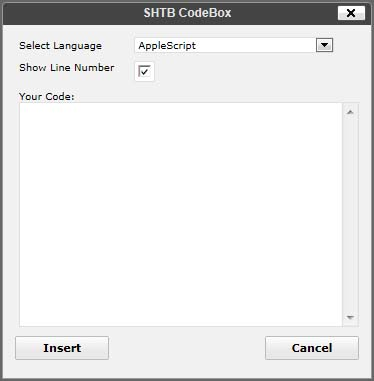
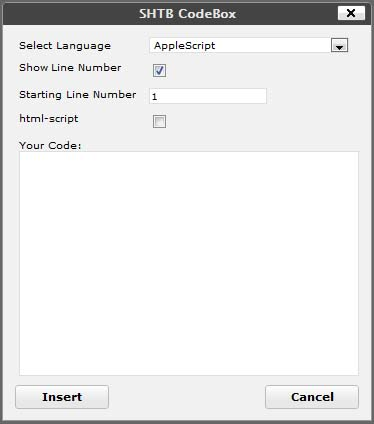
git-svn-id: https://plugins.svn.wordpress.org/syntaxhighlighter-tinymce-button/trunk@385317 b8457f37-d9ea-0310-8a92-e5e31aec5664

diff --git a/sh-tinymce-button-ins/tinymce.js b/sh-tinymce-button-ins/tinymce.js
@@ -25,6 +25,8 @@ function insertSHTBADVINSERTcode() {
 	var langname_ddb = document.getElementById('shtb_adv_insert_language');
 	var langname = langname_ddb.value;
 	var linenumbers = document.getElementById('shtb_adv_insert_linenumbers').checked;
+	var starting_linenumber = document.getElementById('shtb_adv_insert_starting_linenumber').value;
+	var html_script = document.getElementById('shtb_adv_insert_html_script').checked;
 	var inst = tinyMCE.getInstanceById('content');
 	var html = inst.selection.getContent();
 	html = html.replace(/<p>/g,"").replace(/<\/p>/g,"<br \/>");
@@ -37,7 +39,20 @@ function insertSHTBADVINSERTcode() {
 	else
 		classAttribs = classAttribs + '; gutter: false';
 
-	if(e = ed.dom.getParent(ed.selection.getNode(), 'pre')){
+	if (starting_linenumber)
+		classAttribs = classAttribs + '; first-line: ' + starting_linenumber;
+	else
+		classAttribs = classAttribs;
+
+	if (html_script)
+		classAttribs = classAttribs + '; html-script: true';
+	else
+		classAttribs = classAttribs;
+
+	if(starting_linenumber.match(/[^0-9]+/)){
+			alert("Please input number to the 'Starting Line Number' column");
+			return;
+	} else if(e = ed.dom.getParent(ed.selection.getNode(), 'pre')){
 		ed.dom.setAttribs(e, {class : 'brush: '+classAttribs});
 	} else {
 	window.tinyMCE.execInstanceCommand('content', 'mceInsertContent', false, tagtext+classAttribs+'">'+html+'</pre>');

diff --git a/sh-tinymce-button-box/tinymce.js b/sh-tinymce-button-box/tinymce.js
@@ -24,6 +24,8 @@ function insertSHTBADVCODEBOXcode() {
 	var langname_ddb = document.getElementById('shtb_adv_codebox_language');
 	var langname = langname_ddb.value;
 	var linenumbers = document.getElementById('shtb_adv_codebox_linenumbers').checked;
+	var starting_linenumber = document.getElementById('shtb_adv_codebox_starting_linenumber').value;
+	var html_script = document.getElementById('shtb_adv_codebox_html_script').checked;
 	var code = document.getElementById('shtb_adv_codebox_code').value.replace(/</g,'&lt;').replace(/\n/g,'<br>');
 
 	var tagtext = '<pre class="brush: ';
@@ -34,7 +36,20 @@ function insertSHTBADVCODEBOXcode() {
 	else
 		classAttribs = classAttribs + '; gutter: false';
 
-	if (code == '') {
+	if (starting_linenumber)
+		classAttribs = classAttribs + '; first-line: ' + starting_linenumber;
+	else
+		classAttribs = classAttribs;
+
+	if (html_script)
+		classAttribs = classAttribs + '; html-script: true';
+	else
+		classAttribs = classAttribs;
+
+	if(starting_linenumber.match(/[^0-9]+/)){
+			alert("Please input number to the 'Starting Line Number' column");
+			return;
+	} else if (code == '') {
 		alert("Your code is empty");
 	} else {
 	window.tinyMCE.execInstanceCommand('content', 'mceInsertContent', false, tagtext+classAttribs+'">'+code+'</pre>');

diff --git a/sh-tinymce-button-ins/re_write.js b/sh-tinymce-button-ins/re_write.js
@@ -8,11 +8,17 @@ var SHTBADVINSERTDialog = {
 		if (e = ed.dom.getParent(ed.selection.getNode(), 'pre')) {
 			str = ed.dom.getAttrib(e, 'class').split(";");
 			f.shtb_adv_insert_language.value = str[0].replace("brush: ", "");
-			if(ed.dom.getAttrib(e, 'class').match(/true/)){
+			if(ed.dom.getAttrib(e, 'class').match(/gutter: true/)){
 				f.shtb_adv_insert_linenumbers.checked = true;
 			}
-			if(ed.dom.getAttrib(e, 'class').match(/false/)){
+			if(ed.dom.getAttrib(e, 'class').match(/gutter: false/)){
 				f.shtb_adv_insert_linenumbers.checked = false;
+			}
+			if(ed.dom.getAttrib(e, 'class').match(/first-line:/)){
+				f.shtb_adv_insert_starting_linenumber.value = str[2].replace(" first-line: ", "");
+			}
+			if(ed.dom.getAttrib(e, 'class').match(/html-script: true/)){
+				f.shtb_adv_insert_html_script.checked = true;
 			}
 			f.insert.value=ed.getLang('update');
 		}

diff --git a/sh-tinymce-button-box/editor_plugin.js b/sh-tinymce-button-box/editor_plugin.js
@@ -13,7 +13,7 @@
 				ed.windowManager.open({
 					file : url + '/window.php',
 					width : 360,
-					height : 340,
+					height : 390,
 					inline : 1
 				}, {
 					plugin_url : url // Plugin absolute URL
@@ -41,7 +41,7 @@
 					author 	  : 'redcocker',
 					authorurl : 'http://www.near-mint.com/blog',
 					infourl   : 'http://www.near-mint.com/blog',
-					version   : "0.2.2"
+					version   : "0.3"
 			};
 		}
 	});

diff --git a/sh-tinymce-button-ins/editor_plugin.js b/sh-tinymce-button-ins/editor_plugin.js
@@ -13,7 +13,7 @@
 				ed.windowManager.open({
 					file : url + '/window.php',
 					width : 360,
-					height : 90,
+					height : 145,
 					inline : 1
 				}, {
 					plugin_url : url // Plugin absolute URL
@@ -41,7 +41,7 @@
 					author 	  : 'redcocker',
 					authorurl : 'http://www.near-mint.com/blog',
 					infourl   : 'http://www.near-mint.com/blog',
-					version   : "0.2.2"
+					version   : "0.3"
 			};
 		}
 	});

diff --git a/sh-tinymce-button-ins/window.php b/sh-tinymce-button-ins/window.php
@@ -15,8 +15,8 @@ global $wpdb;
 <!-- 	<meta http-equiv="Content-Type" content="<?php// bloginfo('html_type'); ?>; charset=<?php //echo get_option('blog_charset'); ?>" /> -->
 	<script language="javascript" type="text/javascript" src="<?php echo get_option('siteurl') ?>/wp-includes/js/tinymce/tiny_mce_popup.js"></script>
 	<script language="javascript" type="text/javascript" src="<?php echo get_option('siteurl') ?>/wp-includes/js/tinymce/utils/form_utils.js"></script>
-	<script language="javascript" type="text/javascript" src="<?php echo get_option('siteurl') ?>/wp-content/plugins/syntaxhighlighter-tinymce-button/sh-tinymce-button-ins/tinymce.js?ver=0.2.1"></script>
-	<script language="javascript" type="text/javascript" src="<?php echo get_option('siteurl') ?>/wp-content/plugins/syntaxhighlighter-tinymce-button/sh-tinymce-button-ins/re_write.js?ver=0.2.1"></script>
+	<script language="javascript" type="text/javascript" src="<?php echo get_option('siteurl') ?>/wp-content/plugins/syntaxhighlighter-tinymce-button/sh-tinymce-button-ins/tinymce.js?ver=0.3"></script>
+	<script language="javascript" type="text/javascript" src="<?php echo get_option('siteurl') ?>/wp-content/plugins/syntaxhighlighter-tinymce-button/sh-tinymce-button-ins/re_write.js?ver=0.3"></script>
 	<base target="_self" />
 </head>
 		<body id="link" onload="tinyMCEPopup.executeOnLoad('init();');document.body.style.display='';" style="display: none">
@@ -66,6 +66,14 @@ global $wpdb;
           <tr>
 			<td nowrap="nowrap" valign="top"><label for="shtb_adv_insert_linenumbers"><?php _e("Show Line Number", 'shtb_adv_lang'); ?></label></td>
             <td><label><input name="shtb_adv_insert_linenumbers" id='shtb_adv_insert_linenumbers' type="checkbox" checked="checked" /></label></td>
+          </tr>
+          <tr>
+			<td nowrap="nowrap" valign="top"><label for="shtb_adv_insert_starting_linenumber"><?php _e("Starting Line Number", 'shtb_adv_lang'); ?></label></td>
+            <td><label><input name="shtb_adv_insert_starting_linenumber" id='shtb_adv_insert_starting_linenumber' type="text" value="1" /></label></td>
+          </tr>
+          <tr>
+			<td nowrap="nowrap" valign="top"><label for="shtb_adv_insert_html_script"><?php _e("html-script", 'shtb_adv_lang'); ?></label></td>
+            <td><label><input name="shtb_adv_insert_html_script" id='shtb_adv_insert_html_script' type="checkbox" /></label></td>
           </tr>
         </table>
 	<div class="mceActionPanel">

diff --git a/sh-tinymce-button-box/window.php b/sh-tinymce-button-box/window.php
@@ -15,7 +15,7 @@ global $wpdb;
 <!-- 	<meta http-equiv="Content-Type" content="<?php// bloginfo('html_type'); ?>; charset=<?php //echo get_option('blog_charset'); ?>" /> -->
 	<script language="javascript" type="text/javascript" src="<?php echo get_option('siteurl') ?>/wp-includes/js/tinymce/tiny_mce_popup.js"></script>
 	<script language="javascript" type="text/javascript" src="<?php echo get_option('siteurl') ?>/wp-includes/js/tinymce/utils/form_utils.js"></script>
-	<script language="javascript" type="text/javascript" src="<?php echo get_option('siteurl') ?>/wp-content/plugins/syntaxhighlighter-tinymce-button/sh-tinymce-button-box/tinymce.js?ver=0.2.1"></script>
+	<script language="javascript" type="text/javascript" src="<?php echo get_option('siteurl') ?>/wp-content/plugins/syntaxhighlighter-tinymce-button/sh-tinymce-button-box/tinymce.js?ver=0.3"></script>
 	<base target="_self" />
 </head>
 		<body id="link" onload="tinyMCEPopup.executeOnLoad('init();');document.body.style.display='';document.getElementById('shtb_adv_codebox_code').focus();" style="display: none">
@@ -65,6 +65,14 @@ global $wpdb;
           <tr>
 			<td nowrap="nowrap" valign="top"><label for="shtb_adv_codebox_linenumbers"><?php _e("Show Line Number", 'shtb_adv_lang'); ?></label></td>
             <td><label><input name="shtb_adv_codebox_linenumbers" id='shtb_adv_codebox_linenumbers' type="checkbox" checked="checked" /></label></td>
+          </tr>
+          <tr>
+			<td nowrap="nowrap" valign="top"><label for="shtb_adv_codebox_starting_linenumber"><?php _e("Starting Line Number", 'shtb_adv_lang'); ?></label></td>
+            <td><label><input name="shtb_adv_codebox_starting_linenumber" id='shtb_adv_codebox_starting_linenumber' type="text" value="1" /></label></td>
+          </tr>
+          <tr>
+			<td nowrap="nowrap" valign="top"><label for="shtb_adv_codebox_html_script"><?php _e("html-script", 'shtb_adv_lang'); ?></label></td>
+            <td><label><input name="shtb_adv_codebox_html_script" id='shtb_adv_codebox_html_script' type="checkbox" /></label></td>
           </tr>
           <tr>
 			<td nowrap="nowrap" valign="top" colspan="2">

diff --git a/sh-tinymce-button.php b/sh-tinymce-button.php
@@ -3,14 +3,14 @@
 Plugin Name: SyntaxHighlighter TinyMCE Button
 Plugin URI: http://www.near-mint.com/blog/software
 Description: 'SyntaxHighlighter TinyMCE Button' provides additional buttons for Visual Editor and these buttons will help to type or edit <code>&lt;pre&gt;</code> tag for Alex Gorbatchev's <a href='http://alexgorbatchev.com/SyntaxHighlighter/'>SyntaxHighlighter</a>. This plugin is based on '<a href='http://wordpress.org/extend/plugins/codecolorer-tinymce-button/'>CodeColorer TinyMCE Button</a>'.
-Version: 0.2.2
+Version: 0.3
 Author: Redcocker
 Author URI: http://www.near-mint.com/blog/
 Text Domain: shtb_adv_lang
 Domain Path: /locale/
 */
 /*
-Date of release: Ver. 0.2.2 2011/5/13
+Date of release: Ver. 0.3 2011/5/16
 License: GPL v2
 */
 load_plugin_textdomain('shtb_adv_lang', false, 'syntaxhighlighter-tinymce-button/locale');

diff --git a/sh-tinymce-button-box/sh-tinymce-button-box.php b/sh-tinymce-button-box/sh-tinymce-button-box.php
@@ -1,7 +1,7 @@
 <?php
 /*
 SyntaxHighlighter TinyMCE Button Codebox
-Version: 0.2.2 2011/5/13 by Redcocker
+Version: 0.3 2011/5/16 by Redcocker
 License: GPL v2
 http://www.near-mint.com/blog/
 */

diff --git a/sh-tinymce-button-ins/sh-tinymce-button-ins.php b/sh-tinymce-button-ins/sh-tinymce-button-ins.php
@@ -1,7 +1,7 @@
 <?php
 /*
 SyntaxHighlighter TinyMCE Button Insert
-Version: 0.2.2 2011/5/13 by Redcocker
+Version: 0.3 2011/5/16 by Redcocker
 License: GPL v2
 http://www.near-mint.com/blog/
 */
